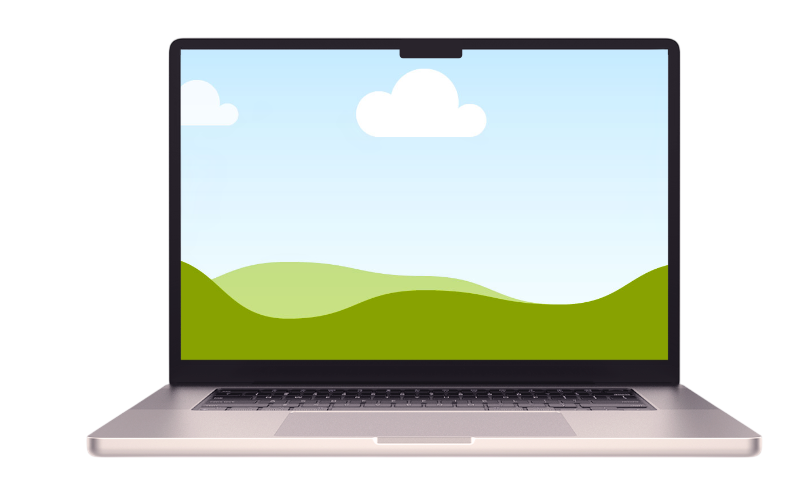
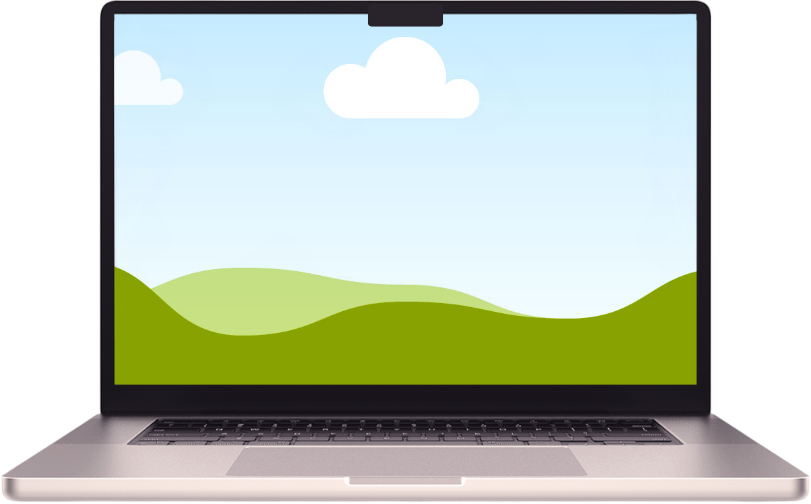
fix: refine project preview carousel
Changes: refresh MacBook preview asset; tune iPad and iPhone preview sizing and spacing; align preview controls with capability carousel. Reason: improve device-preview alignment and reduce excess whitespace. Impact: project detail preview section only.

diff --git a/src/features/project-detail/ProjectDetailSections.tsx b/src/features/project-detail/ProjectDetailSections.tsx
@@ -34,6 +34,11 @@ function SystemPreviewCarousel({
   const { carouselRef, carouselState, scrollCards } = useDetailCarousel();
   const dragScroll = useHorizontalDragScroll();
   const canScroll = carouselState.canScrollPrev || carouselState.canScrollNext;
+  const previewMaxHeight = device.name === 'iPad'
+    ? { xs: 230, sm: 270, lg: 300 }
+    : device.name === 'iPhone'
+      ? { xs: 300, sm: 340, lg: 380 }
+      : device.maxHeight;
 
   return (
     <ResponsiveStack spacing={{ xs: 2, md: 2.5 }}>
@@ -56,7 +61,7 @@ function SystemPreviewCarousel({
           {...dragScroll}
           sx={{
             display: 'flex',
-            gap: device.gap,
+            gap: { xs: '12px', md: '16px' },
             overflowX: 'auto',
             overscrollBehaviorX: 'contain',
             scrollSnapType: 'x mandatory',
@@ -66,10 +71,10 @@ function SystemPreviewCarousel({
             touchAction: 'pan-x pan-y',
             userSelect: 'none',
             WebkitUserSelect: 'none',
-            px: { xs: 3, md: 4 },
+            px: 0,
             pt: 3,
             pb: 4,
-            scrollPaddingInline: { xs: 3, md: 4 },
+            scrollPaddingInline: 0,
             '&::-webkit-scrollbar': { display: 'none' },
             '& img': { WebkitUserDrag: 'none' },
           }}
@@ -96,12 +101,36 @@ function SystemPreviewCarousel({
               sx={{
                 display: 'block',
                 flex: '0 0 auto',
-                width: device.width,
-                maxWidth: '100%',
-                maxHeight: device.maxHeight,
+                width: device.name === 'iPhone'
+                  ? {
+                      xs: '100%',
+                      sm: 'calc((100% - 12px) / 2)',
+                      md: 'calc((100% - 48px) / 4)',
+                      lg: 'calc((100% - 80px) / 6)',
+                    }
+                  : device.name === 'iPad'
+                    ? {
+                        xs: '100%',
+                        sm: 'calc((100% - 12px) / 2)',
+                        md: 'calc((100% - 48px) / 4)',
+                        lg: 'calc((100% - 64px) / 5)',
+                      }
+                    : {
+                        xs: '100%',
+                        sm: 'calc((100% - 12px) / 2)',
+                        md: 'calc((100% - 32px) / 3)',
+                        lg: 'calc((100% - 48px) / 4)',
+                      },
+                maxWidth: device.name === 'iPad'
+                  ? { xs: 230, sm: 245, lg: 260 }
+                  : device.name === 'iPhone'
+                    ? { xs: 185, sm: 195, lg: 210 }
+                    : 'none',
+                maxHeight: previewMaxHeight,
                 objectFit: 'contain',
                 objectPosition: 'left center',
                 scrollSnapAlign: 'start',
+                scrollSnapStop: 'always',
                 cursor: 'zoom-in',
                 appearance: 'none',
                 WebkitAppearance: 'none',
@@ -138,7 +167,7 @@ function SystemPreviewCarousel({
                 sx={{
                   display: 'block',
                   width: '100%',
-                  maxHeight: device.maxHeight,
+                  maxHeight: previewMaxHeight,
                   objectFit: 'contain',
                   objectPosition: 'left center',
                   pointerEvents: 'none',
@@ -150,7 +179,7 @@ function SystemPreviewCarousel({
 
         <ResponsiveStack
           direction="row"
-          spacing={1}
+          spacing={2}
           justifyContent="flex-end"
           sx={{ mt: 1.5, visibility: canScroll ? 'visible' : 'hidden' }}
         >
@@ -194,19 +223,32 @@ function SystemPreviewOverlay({
   onNavigate: (direction: -1 | 1) => void;
 }) {
   const stageHeight = device.name === 'iPhone'
-    ? { xs: 480, sm: 560, md: 640 }
+    ? { xs: 320, sm: 420, md: 500 }
     : device.name === 'iPad'
-      ? { xs: 400, sm: 480, md: 580 }
-      : { xs: 330, sm: 440, md: 560 };
+      ? { xs: 260, sm: 340, md: 420 }
+      : { xs: 220, sm: 320, md: 400 };
 
   return (
     <Modal
       open
       onClose={onClose}
-      aria-labelledby="system-preview-overlay-title"
+      aria-label="System preview"
+      slotProps={{
+        backdrop: {
+          sx: {
+            bgcolor: 'transparent',
+            backdropFilter: 'none',
+          },
+        },
+      }}
       sx={{
-        display: 'grid',
-        placeItems: 'center',
+        position: 'fixed',
+        inset: 0,
+        display: 'flex',
+        alignItems: 'center',
+        justifyContent: 'center',
+        minHeight: '100dvh',
+        boxSizing: 'border-box',
         p: { xs: 2, sm: 4 },
         bgcolor: 'transparent',
         backdropFilter: 'none',
@@ -215,26 +257,20 @@ function SystemPreviewOverlay({
       <ResponsiveStack
         spacing={{ xs: 2, md: 2.5 }}
         sx={{
-          width: 'min(100%, 1000px)',
-          maxHeight: '92vh',
-          overflow: 'auto',
+          width: 'min(calc(100vw - 32px), 1000px)',
+          flex: '0 1 1000px',
+          m: 0,
+          maxHeight: 'calc(100dvh - 32px)',
+          overflow: 'hidden',
           p: { xs: 2, sm: 3, md: 4 },
-          borderRadius: 0,
-          bgcolor: 'transparent',
+          borderRadius: { xs: '24px', md: '30px' },
+          bgcolor: '#11131A',
           color: '#fff',
-          boxShadow: 'none',
+          boxShadow: '0 32px 80px rgba(0,0,0,0.5)',
           outline: 'none',
         }}
       >
-        <ResponsiveStack direction="row" alignItems="center" justifyContent="space-between" spacing={2}>
-          <ResponsiveStack spacing={0.3}>
-            <Typography id="system-preview-overlay-title" sx={{ fontSize: { xs: 18, md: 22 }, fontWeight: 700 }}>
-              {device.label}
-            </Typography>
-            <Typography sx={{ color: 'rgba(255,255,255,0.6)', fontSize: 14, fontWeight: 600 }}>
-              {imageIndex + 1} / {systemPreviewImageCount}
-            </Typography>
-          </ResponsiveStack>
+        <ResponsiveStack direction="row" alignItems="center" justifyContent="flex-end" spacing={2}>
           <Box
             component="button"
             type="button"
@@ -258,18 +294,31 @@ function SystemPreviewOverlay({
           </Box>
         </ResponsiveStack>
 
-        <Box sx={{ position: 'relative', height: stageHeight, mx: 'auto', width: '100%', maxWidth: 860 }}>
+        <Box
+          sx={{
+            position: 'relative',
+            display: 'grid',
+            placeItems: 'center',
+            height: stageHeight,
+            minHeight: 0,
+            mx: 'auto',
+            width: '100%',
+            maxWidth: 860,
+            overflow: 'hidden',
+          }}
+        >
           <Box
             key={`${device.name}-${imageIndex}`}
             component="img"
             src={device.imageUrl}
             alt={`${project.title} ${device.name} ${imageIndex + 1}`}
             sx={{
-              position: 'absolute',
+              position: 'relative',
               zIndex: 1,
-              inset: 0,
-              width: '100%',
-              height: '100%',
+              width: 'auto',
+              height: 'auto',
+              maxWidth: '100%',
+              maxHeight: '100%',
               objectFit: 'contain',
               filter: 'none',
               animation: 'system-preview-slide-in 360ms cubic-bezier(0.22, 1, 0.36, 1)',
@@ -281,7 +330,7 @@ function SystemPreviewOverlay({
           />
         </Box>
 
-        <ResponsiveStack direction="row" justifyContent="center" spacing={1.25}>
+        <ResponsiveStack direction="row" justifyContent="center" spacing={1.25} sx={{ width: '100%', alignSelf: 'center' }}>
           <Box
             component="button"
             type="button"
